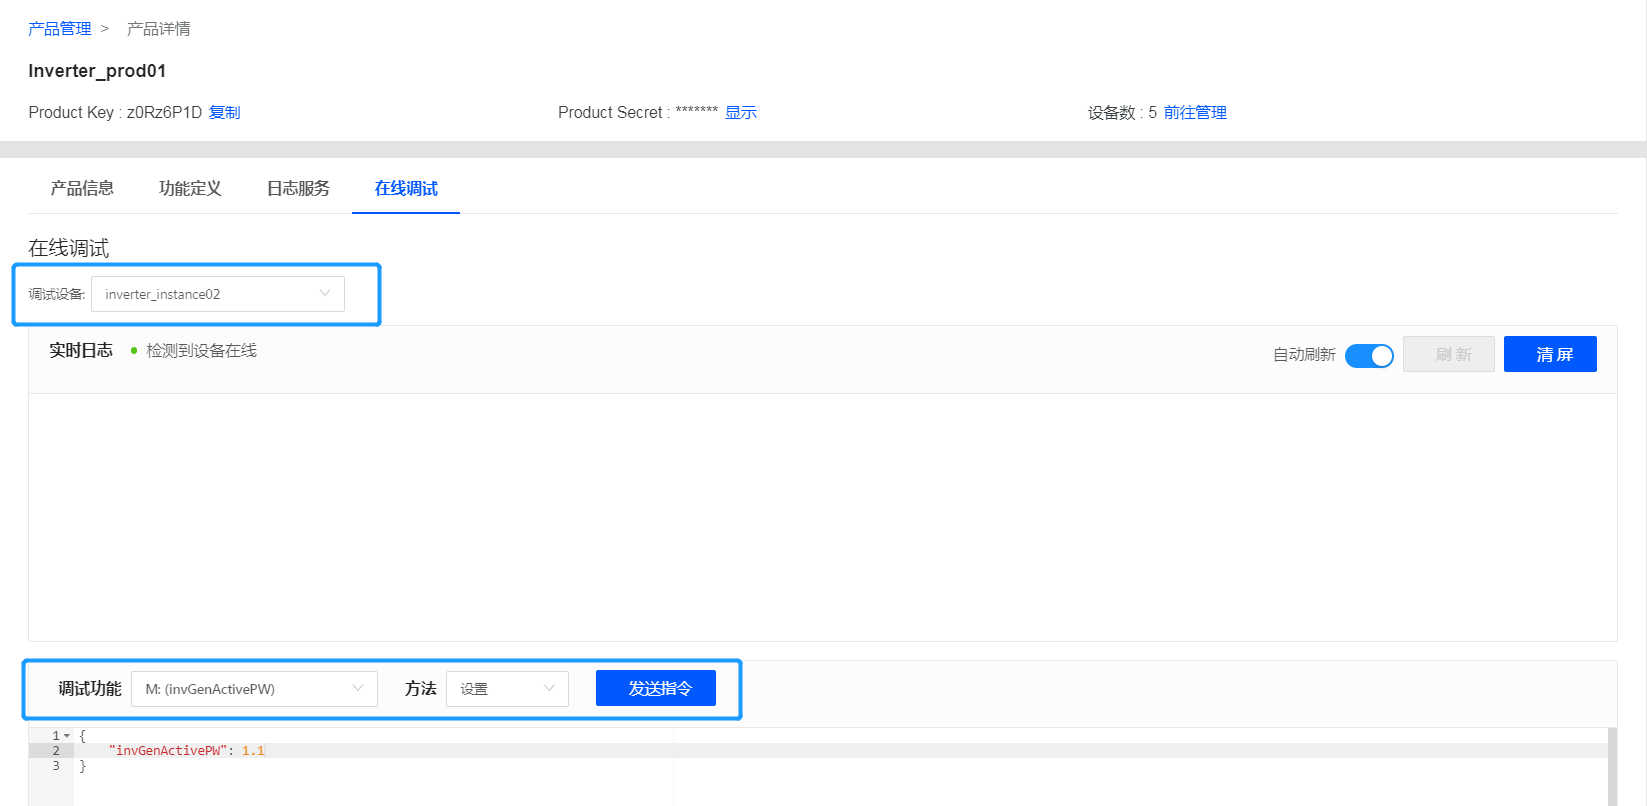
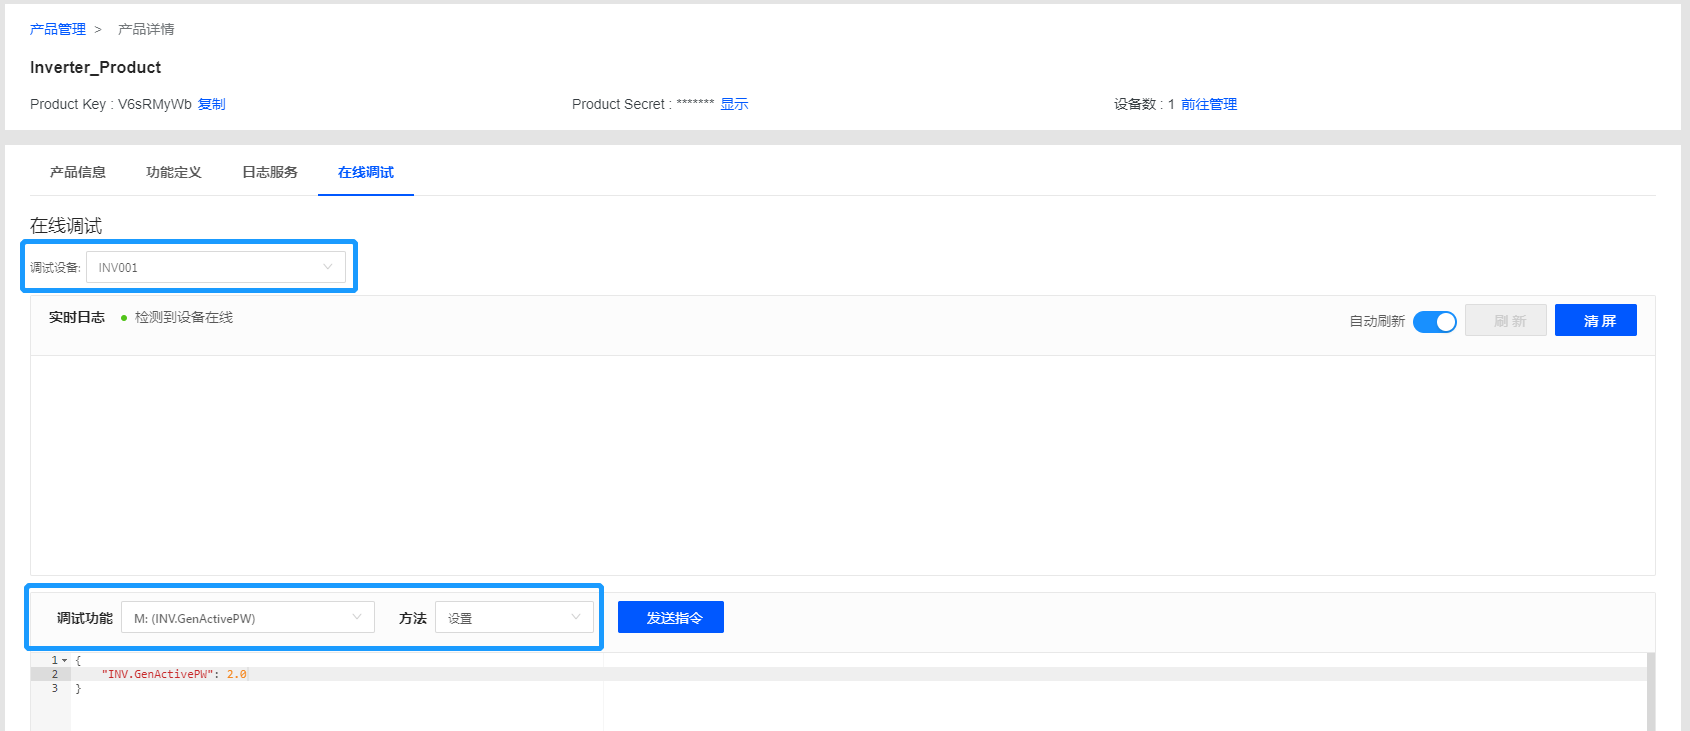
Update.

diff --git a/howto/device/manage/managing_commands.md b/howto/device/manage/managing_commands.md
@@ -1,0 +1,71 @@
+# 管理云端指令缓存
+
+在设备与云端连接断开，或在低功耗设备因长期休眠无法及时获取及执行云端指令的场景下，你可以通过云端缓存指令功能管理指令，并可对下发的指令进行状态跟踪。
+
+发送缓存的指令前，云端会先判断设备是否在线：
+- 如果设备在线则直接进行下发，并获得返回的响应信息，同即时下发场景。
+- 如果设备处于离线状态，则云端首先将该条指令加入到此设备的缓存下发队列中，缓存队列是一个有序的队列，等待设备重新与云端建立连接后，云端对缓存的指令按顺序进行串行下发。
+
+## 指令状态
+
+- **已创建**：云端接收指令并创建，但未发送给设备。
+- **已取消**：该指令已被撤销，只有处于**已创建**状态的指令才能被撤销。
+- **已超期**：指令超过指定的有效期，置为过期。有效期可以由应用指定，默认值为0s，即应用不指定的话即作为即时命令下发，有效期最大值不超过48小时（172800s），对于超过有效期的缓存指令，云端需要从缓存队列中自动清除，并将状态置为**已超期**。
+- **已下发**：云端已将指令投递到设备的下行消息通道中，但设备尚未响应。注意，该状态不代表一定发送成功；
+- **发送成功**：设备接收指令并返回响应信息。注意，该状态不代表执行的结果，设备可以在响应信息中带上自定义的业务描述信息desc（可选）。
+- **发送失败**：指令因为各种原因发送失败，该条指令无法被正确的投递到下行消息通道中，可以原因为：设备离线、脚本解析错误，无效指令等。
+- **响应超时**：指令发送到设备下行消息通道，设备在timeout周期内进行3次重试直至超时仍无响应。
+
+## 规则
+
+有关云端指令缓存功能有如下规则：
+
+- **缓存有序下发**：设备处理并返回上一条指令的响应信息后，云端才会发送下一条缓存指令，上一条指令的处理结果包括：发送成功（设备接收指令并正常响应）和响应超时（云端已经发送了指令但是设备没有及时响应）；
+
+- **指令优先级**：缓存指令无优先级。在缓存指令尚未处理完，而应用侧又重新发送了一条新指令的情况下，无论新指令是即时下发的还是缓存下发的，都仍会加入到队列中等待。如果需要优先发送新指令，应用侧可以首先对缓存的指令进行撤销操作，才可下发新的指令。也就是当设备在线的情况，缓存队列中，同时存在缓存指令和立即下发的指令，则所有指令会顺序下发，如果此时设备下线了，则立即下发的指令将自动失败。
+
+
+| 项目                           | 限制                                |
+|--------------------------------|-------------------------------------|
+| 单个设备支持的最大的指令缓存量 | 50                                  |
+| 缓存指令有效期                 | 0 – 48 小时 (17800s)，0代表立即下发 |
+| 设备历史命令存储时长           | 7天                                 |
+
+
+## 开始前准备<beforestart>
+
+- 你需要有设备管理操作权限，如果没有请联系组织管理员添加，参见[策略，角色，与权限](/docs/iam/zh_CN/dev/access_policy)。
+
+## 设备端开发
+
+设备可以在响应信息中带上自定义的业务描述信息以说明指令执行的状态，响应数据格式如下,`desc`为描述字段。
+```json
+{
+    "id": "123",
+    "code": 200,
+    “desc”：“该指令已成功执行”                //显示自定义的描述信息,可选
+    "data": {                                //显示模型中定义的输出参数，允许为空
+               "outputdata1":234,
+               "outputdata2":"xyz"
+              }
+}
+```
+
+## 发送指令
+
+应用可通过调用以下API进行指令的下发：
+- `invokeService`：通过指令调用设备服务
+- `setMeasurepoint`：通过指令对测点进行置数
+有关API的使用，在EnOS控制台点击**EnOS API > API 文档**进行查看。
+
+## 查看指令
+
+1. 在控制面板中选择 **设备管理**。
+2. 选择需查看指令的设备，并在**操作**一栏点击查看图标。
+3. 在**设备详情**页面，点击**命令**页签，即可查看当前设备当前的所有缓存指令。
+
+![View commands](media/cached_commands.png)
+
+你可以在该查看页面进行以下操作：
+- 根据条件筛选需查看的指令
+- 对于**已创建**而未下发的指令，你可以撤销指令。

diff --git a/howto/device/manage/managing_device_simulator.md b/howto/device/manage/managing_device_simulator.md
@@ -1,0 +1,57 @@
+# 管理设备模拟器
+
+用户可以使用EnOS提供的设备模拟器功能用于以下场景：
+
+- EnOS入门学习工具：用户可以通过该功能模拟设备接收数据，以熟悉EnOS各项功能。
+- 异常调试：应用开发过程中，有时候需要模拟设备发送特殊值的数据以验证设备的处理逻辑。现实中设备上报这种特殊值的可能性很小、或者时机不确定，则可以通过模拟器快速便捷地模拟出来，为应用开发和测试提供便利。
+
+## 任务描述
+
+用户可以通过设备模拟器管理功能进行设备模拟器的增删改查、启停的操作。
+
+## 开始前准备
+
+- 需要模拟的设备已经被创建。有关如何创建，参见[创建设备](creating_device)。
+- 你需要有设备模拟器操作权限，如果没有请联系组织管理员添加，参见[策略，角色，与权限](/docs/iam/zh_CN/dev/access_policy)。
+
+## 步骤1：添加设备模拟器
+
+1. 在EnOS控制台中选择 **设备管理 > 设备模拟器** 。
+
+2. 点击 **添加模拟设备** ，在页面上勾选需要模拟的设备。
+   
+   设备列表上列举了当前OU已创建的所有设备，用户只能选择状态为“未激活”的设备进行模拟。状态为“在线”或者“离线”的设备无法被模拟。
+
+3. 点击 **确定** 来创建该设备的模拟器。
+   
+   在模拟器列表上，可以看到刚才创建成功的设备。接下来需要为其定义模拟数据样本。
+
+## 步骤2：定义模拟数据样本
+
+1. 从设备模拟器列表中找到刚才创建的模拟器，点击操作栏的 **编辑**。
+
+2. 在弹出窗口中，点击**下载模板**。
+
+3. 在下载的模板中填入模拟数据样本
+   
+ 第一列表头为**timeOfDay**,内容为相对时间戳：用于填写一天24小时内的相对时间戳，格式为H:MM:SS，精确到秒。
+
+ 第二列表头开始为模型点名，填入需要模拟的模型点名即可，不需要列出模型中的所有点。内容为点值：即模型点的值，若为数组类型，则采用[value1, value2, value3]的形式，如果在当前时间某个点没有值，则为空
+
+4. 在弹出窗口中，点击 **上传数据**，将准备好的模拟数据上传。
+
+5. 点击 **确认** 完成。
+
+## 步骤3：启动设备模拟器
+
+1. 从设备模拟器列表中找到目标模拟器并点击设备后 **启动**；
+   
+2. 在弹出的窗口中设置模拟结束时间。
+   
+   模拟开始时间默认为点击**启动**时的系统时间，模拟器的结束时间需在当前系统时间之后90天内。
+
+## 结果
+
+设备模拟器开始模拟数据上报，用户可以根据需要暂停设备模拟器、下载数据样本、或者重新定义数据样本。用户需要先暂停模拟器方可重新定义或下载数据样本。
+
+

diff --git a/howto/device/manage/using_device_simulator.md b/howto/device/manage/using_device_simulator.md
@@ -1,0 +1,57 @@
+# 使用设备模拟器
+
+用户可以使用EnOS提供的设备模拟器功能用于以下场景：
+
+- EnOS入门学习工具：用户可以通过该功能模拟设备接收数据，以熟悉EnOS各项功能。
+- 异常调试：应用开发过程中，有时候需要模拟设备发送特殊值的数据以验证设备的处理逻辑。现实中设备上报这种特殊值的可能性很小、或者时机不确定，则可以通过模拟器快速便捷地模拟出来，为应用开发和测试提供便利。
+
+## 任务描述
+
+用户可以通过设备模拟器管理功能进行设备模拟器的增删改查、启停的操作。
+
+## 开始前准备
+
+- 需要模拟的设备已经被创建。有关如何创建，参见[创建设备](creating_device)。
+- 你需要有设备模拟器操作权限，如果没有请联系组织管理员添加，参见[策略，角色，与权限](/docs/iam/zh_CN/dev/access_policy)。
+
+## 步骤1：添加设备模拟器
+
+1. 在EnOS控制台中选择 **设备管理 > 设备模拟器** 。
+
+2. 点击 **添加模拟设备** ，在页面上勾选需要模拟的设备。
+   
+   设备列表上列举了当前OU已创建的所有设备，用户只能选择状态为“未激活”的设备进行模拟。状态为“在线”或者“离线”的设备无法被模拟。
+
+3. 点击 **确定** 来创建该设备的模拟器。
+   
+   在模拟器列表上，可以看到刚才创建成功的设备。接下来需要为其定义模拟数据样本。
+
+## 步骤2：定义模拟数据样本
+
+1. 从设备模拟器列表中找到刚才创建的模拟器，点击操作栏的 **编辑**。
+
+2. 在弹出窗口中，点击**下载模板**。
+
+3. 在下载的模板中填入模拟数据样本
+   
+ 第一列表头为**timeOfDay**,内容为相对时间戳：用于填写一天24小时内的相对时间戳，格式为H:MM:SS，精确到秒。
+
+ 第二列表头开始为模型点名，填入需要模拟的模型点名即可，不需要列出模型中的所有点。内容为点值：即模型点的值，若为数组类型，则采用[value1, value2, value3]的形式，如果在当前时间某个点没有值，则为空
+
+4. 在弹出窗口中，点击 **上传数据**，将准备好的模拟数据上传。
+
+5. 点击 **确认** 完成。
+
+## 步骤3：启动设备模拟器
+
+1. 从设备模拟器列表中找到目标模拟器并点击设备后 **启动**；
+   
+2. 在弹出的窗口中设置模拟结束时间。
+   
+   模拟开始时间默认为点击**启动**时的系统时间，模拟器的结束时间需在当前系统时间之后90天内。
+
+## 结果
+
+设备模拟器开始模拟数据上报，用户可以根据需要暂停设备模拟器、下载数据样本、或者重新定义数据样本。用户需要先暂停模拟器方可重新定义或下载数据样本。
+
+

diff --git a/quickstart/gettingstarted_edge_connection.md b/quickstart/gettingstarted_edge_connection.md
@@ -130,7 +130,7 @@
 
 4. 发布配置到edge网关。
 
-更多关于EnOS Edge网关配置相关内容，参考[添加EnOS Edge网关](../howto/edge/managing_edge)
+更多关于EnOS Edge网关配置相关内容，参考[添加EnOS Edge网关](../howto/edge/managing_edge) 。
 
 ## 步骤5：通过设备端SDK模拟网关代理子设备发送数据<DeviceSDK>
 
@@ -188,12 +188,12 @@
      }
      ```
    
-   - 网关代理子设备发送数据，该示例代码中向`invGenActivePW`测点发送随机生成的浮点数据。
+   - 网关代理子设备发送数据，该示例代码中向`INV.GenActivePW`测点发送随机生成的浮点数据。
      ```java
        public static void postSubMeasurepoint() {
         Random random = new Random();
         System.out.println("start post sub device measurepoint ...");
-        MeasurepointPostRequest request = (MeasurepointPostRequest)((MeasurepointPostRequest.Builder)((MeasurepointPostRequest.Builder)MeasurepointPostRequest.builder().setProductKey("sub_pk")).setDeviceKey("sub_dk")).addMeasurePoint("invGenActivePW", random.nextFloat()).build();
+        MeasurepointPostRequest request = (MeasurepointPostRequest)((MeasurepointPostRequest.Builder)((MeasurepointPostRequest.Builder)MeasurepointPostRequest.builder().setProductKey("sub_pk")).setDeviceKey("sub_dk")).addMeasurePoint("INV.GenActivePW", random.nextFloat()).build();
 
         try {
             MeasurepointPostResponse rsp = (MeasurepointPostResponse)client.publish(request);
@@ -214,5 +214,5 @@ SDK具体使用参考[Java SDK README](https://github.com/EnvisionIot/enos-mqtt-
 ## 步骤7：查看设备数据<checkdata>
 
 1. 在 **设备** 页面，找到此设备并点击 **查看** 进入设备详情页面。
-
-2. 点击 **测点** 标签，选择测点 **INV.GenActivePW**，点击 **查看数据** 查看历史数据记录。
+2. 点击 **测点** 标签，选择测点 **INV.GenActivePW**，点击 **查看数据**，打开 **时序洞察** 页面。
+3. 查看测点的最新数据。如果已为该测点配置存储策略，亦可在时序洞察页面生成该测点的历史数据图表。有关时序洞察的详细信息，参见[生成时序数据图表](/docs/data-asset/zh_CN/latest/howto/storage/generating_data_chart.html)。

diff --git a/quickstart/gettingstarted_device_connection.md b/quickstart/gettingstarted_device_connection.md
@@ -292,19 +292,19 @@ SDK具体使用参考[SDK设备端连接](../howto/device/develop/using_java_sdk
 
 ## 步骤5：查看设备连接状态<checkconnection>
 
-进入控制台，选择 **接入管理 > 设备管理**，查看INV001设备的状态，确认设备处于在线状态。
+在EnOS控制台中选择 **设备管理**，在设备列表中，查看 **INV001** 设备的状态，确认设备处于 **在线** 状态。
 
 .. image:: ../media/device_status.png
 
 ## 步骤6：查看设备数据<viewdata>
 
-1. 在 **设备** 页面，找到此设备并点击 **查看** 进入设备详情页面。
-
-2. 点击 **测点** 标签，选择测点 **INV.GenActivePW**，点击 **查看数据** 查看历史数据记录。
+1. 在设备列表中，找到 **INV001** 设备，并点击 **操作** 列中的 **查看** 图标，进入 **设备详情** 页面。
+2. 点击 **测点** 标签，找到测点 **INV.GenActivePW**，点击 **查看数据**，打开 **时序洞察** 页面。
+3. 查看测点的最新数据。如果已为该测点配置存储策略，亦可在时序洞察页面生成该测点的历史数据图表。有关时序洞察的详细信息，参见[生成时序数据图表](/docs/data-asset/zh_CN/latest/howto/storage/generating_data_chart.html)。
 
 ## 步骤7：通过在线调试工具调试测点置数
 
-1. 点击**设备管理 > 产品管理**，点击所需调试设备所属的产品操作栏的**查看**。
+1. 点击 **设备管理 > 产品管理**，点击所需调试设备所属的产品操作栏的 **查看**。
 
 2. 在产品详情页，点击**在线调试**。
 
@@ -314,10 +314,10 @@ SDK具体使用参考[SDK设备端连接](../howto/device/develop/using_java_sdk
 
    .. image:: media/debug_postmeasurepoint.png
 
-测点至数成功后，在Java开发环境中你会收到以下回应：
+测点置数成功后，在Java开发环境中你会收到以下回应：
 
 ```
-AnswerableMessageBody{id='21', method='thing.service.measurepoint.set', version='1.0', params={invGenActivePW=2.0}}
+AnswerableMessageBody{id='21', method='thing.service.measurepoint.set', version='1.0', params=IVN.GenActivePW=2.0}}
 ```
 
 <!--end-->

diff --git a/learn/ingestion/offline_message_integration.md b/learn/ingestion/offline_message_integration.md
@@ -5,14 +5,13 @@
 离线消息集成功能仅支持单向的数据传输，即从第三方系统传输到EnOS。可在下列场景中使用离线消息集成功能：
 
 - 第三方系统中设备历史数据导入：如第三方系统过去一个月的存量历史数据；
-- 设备离线缓存的数据进行断电续传：如设备离线状态下缓存的测点数据，设备恢复上线后需要重新上报到第三方系统，再传送至EnOS <!--此处的设备，指的是连接到第三方云的设备吗？-->
+- 设备离线缓存的数据进行断点续传：如设备离线状态下缓存的测点数据，设备恢复上线后需要重新上报到第三方系统，再传送至EnOS 
 
 ## 消息源类型
 
 离线消息集成目前支持第三方系统作为客户端，通过下列协议、格式或方式将历史数据和离线缓存数据导入EnOS：
 
 - MQTT。离线消息集成使用的MQTT Topic、请求及响应格式、参数说明，参见[基于MQTT协议的设备连接（离线消息）](../../reference/mqtt_offline/index)
-<!--后续如果支持更多协议、格式、方法，请在此处列举。 -->
 
 ## 流程概述
 

diff --git a/howto/alert/gettingstarted.md b/howto/alert/gettingstarted.md
@@ -10,11 +10,14 @@ Briefly mention what the user's learning goal is and include the following SEO k
 
 - 了解资产告警的主要概念及信息从测点采集至触发告警的流程，参考[资产告警概述](alert_overview)。
 - 将设备接入至EnOS平台，过程如下：
-  1. 完成设备建模
-  2. 完成设备在EnOS云端的身份注册
-  3. 完成设备端开发以使得设备可以通过EnOS的标准协议连接及发送数据，参考[设备端开发](../device/devlop/index)
+  
+  1. 完成设备建模。
+   
+  2. 完成设备在EnOS云端的身份注册。
+   
+  3. 完成设备端开发以使得设备可以通过EnOS的标准协议连接及发送数据，参考[设备端开发](../device/devlop/index) 。
 
-    该准备的过程，可参考[将智能设备连接至EnOS](../../quickstart/gettingstarted_device_connection).
+     该准备的过程，可参考[将智能设备连接至EnOS](../../quickstart/gettingstarted_device_connection) 。
 
 **步骤1. 配置告警级别**
 

diff --git a/howto/device/develop/java/connect.md b/howto/device/develop/java/connect.md
@@ -4,7 +4,7 @@
 
 在以下示例中：
 - `serverUrl`是指服务器地址。如果使用TCP连接，服务器URL的格式可以是`tcp://{regionUrl}:11883`。
-- <`productKey`、`deviceKey`、`deviceSecret`>（或当拟采用动态方式激活设备时的<`productKey`、`deviceKey`、`productSecret`>）是指你注册设备时由EnOS发布的设备凭证。有关设备注册的更多信息，参见[将智能设备接入EnOS云端](/docs/device-connection/en/latest/quickstart/gettingstarted_device_connection)。
+- <`productKey`、`deviceKey`、`deviceSecret`>（或当拟采用动态方式激活设备时的<`productKey`、`deviceKey`、`productSecret`>）是指你注册设备时由EnOS发布的设备凭证。有关设备注册的更多信息，参见[将智能设备接入EnOS云端](../../../../quickstart/gettingstarted_device_connection)。
 
 
 ```java

diff --git a/reference/coap/coap_non_dtls/reporting_data_non_dtls.md b/reference/coap/coap_non_dtls/reporting_data_non_dtls.md
@@ -6,7 +6,7 @@
 
 通过CoAP接入的低功耗设备消耗的数据格式常见为二进制数据流，可以使用透传模式上报至EnOS并在云端通过脚本解析器将数据转成EnOS标准JSON。
 
-当设备通过CoAP协议接入EnOS时，Topic规范和MQTT Topic一致，有关上行消息的请求数据格式、响应数据格式、参数说明，参见[设备上报属性、测点和事件（透传）](../mqtt/upstream/device_else/report_event_pass)
+当设备通过CoAP协议接入EnOS时，Topic规范和MQTT Topic一致，有关上行消息的请求数据格式、响应数据格式、参数说明，参见[设备上报属性、测点和事件（透传）](../../mqtt/upstream/device_else/report_event_pass)
 
 设备上报数据的格式如下：
 

diff --git a/reference/coap/coap_non_dtls/invoking_service_setting_measure_point_non_dtls.md b/reference/coap/coap_non_dtls/invoking_service_setting_measure_point_non_dtls.md
@@ -4,7 +4,7 @@
 
 .. image:: ../../../media/coap_downstream_flow_non_dtls.png 
 
-关于测点设置、服务调用的请求数据格式、相应数据格式、参数说明，参见[向设备发送指令（透传）](../mqtt/downstream/devices/invoke_services_pass)。
+关于测点设置、服务调用的请求数据格式、相应数据格式、参数说明，参见[向设备发送指令（透传）](../../mqtt/downstream/invoke_services_pass)。
 
 当应用对设备设置测点或调用服务后，EnOS Cloud会缓存这个请求，待设备发送上行数据时，在响应消息内通知设备，即EnOS会在响应中包含一个EnOS定义的Option（2100）。其格式如下：
 
